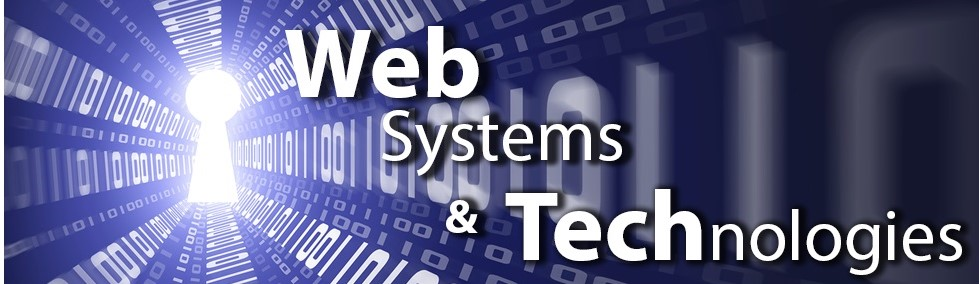
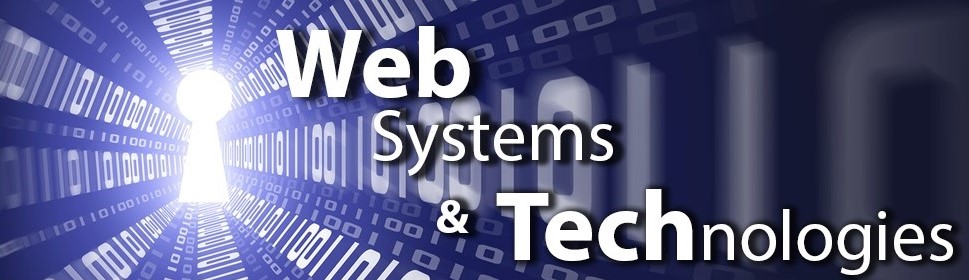
edited the website

Changed region(s): [[0.0, 0.0, 0.9907, 1.0], [0.6502, 0.0, 0.6811, 0.0286]]

diff --git a/Course Website/Style/midterm_notes.css b/Course Website/Style/midterm_notes.css
@@ -1,17 +1,22 @@
 body {
-  margin: 0 auto;
-  width: 60%;
-  font-size: 28px;
+  background-image: url('images/background.jpg');
+  background-attachment: fixed;
+  background-size: 100%;
 }
 
 .header {
-  background-color: #f1f1f1;
-  padding: 50px;
+  background-image: url('images/header.jpg');
+  padding: 163px;
   text-align: center;
+  background-size: 100%;
+  background-repeat: no-repeat;
 }
 
 .container{
-  
+  margin: 0 auto;
+  width: 60%;
+  font-size: 28px;
+  background-color: white;
 }
 
 #navbar {
@@ -24,7 +29,7 @@ body {
   display: block;
   color: #f2f2f2;
   text-align: center;
-  padding: 14px 16px;
+  padding: 14px 90px;
   text-decoration: none;
   font-size: 17px;
 }
@@ -51,7 +56,7 @@ ul {
 .sticky {
   position: fixed;
   top: 0;
-  width: 100%;
+  width: 59.5%;
 }
 
 .sticky + .content {

diff --git a/Course Website/index.html b/Course Website/index.html
@@ -3,7 +3,7 @@
 <head>
   <meta charset="UTF-8">
   <title> Webtek Notes </title>
-  <link rel="stylesheet" type="text/css" href="midterm_notes.css">
+  <link rel="stylesheet" type="text/css" href="Style/midterm_notes.css">
 </head>
 
 <body> 

diff --git a/Course Website/page2.html b/Course Website/page2.html
@@ -3,7 +3,7 @@
 <head>
   <meta charset="UTF-8">
   <title> Webtek Notes </title>
-  <link rel="stylesheet" type="text/css" href="midterm_notes.css">
+  <link rel="stylesheet" type="text/css" href="Style/midterm_notes.css">
 </head>
 
 <body> 

diff --git a/Course Website/page3.html b/Course Website/page3.html
@@ -3,7 +3,7 @@
 <head>
   <meta charset="UTF-8">
   <title> Webtek Notes </title>
-  <link rel="stylesheet" type="text/css" href="midterm_notes.css">
+  <link rel="stylesheet" type="text/css" href="Style/midterm_notes.css">
 </head>
 
 <body> 
